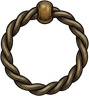
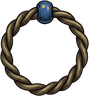
İkonlar: stat/görev ailesi tek parşömen diskte (çeviklik, dayanıklılık, zekâ, sezgi, tellal), büyülü yüzüğün boncuğu mavi

Changed region(s): [[0.4045, 0.0, 0.6067, 0.25], [0.382, 0.125, 0.4045, 0.1562]]

diff --git a/tools/icon_discs.py b/tools/icon_discs.py
@@ -1,0 +1,159 @@
+#!/usr/bin/env python3
+"""Stat ve görev ikonlarını tek aileye toplar: ikinci teslimatın parşömen diski.
+
+İkinci teslimat (Faz 22) stat ve görev ikonlarının çoğunu parşömen yüzlü, ince altın
+çizgili, koyu demir halkalı bir diske koydu; bir kısmı gelmedi ya da bozuk geldi ve
+aile karıştı: çevikliğin tavşanı, zekânın terazisi ve tellalın çanı diskin dışında
+kaldı, dayanıklılık işlenmemiş gri bir kare, sezgi kare bir karo (görsel denetim
+C-01..C-05, 2026-10-22). Bu araç aynı diski üretir ve o ikonları en temiz kaynağından (ilk teslimatın
+`P3*` jpg'leri ya da ikinci teslimatın çıplak ikonları, `*_src.png`) diskin içine oturtur. Disk
+boyanmıyor, ölçülen tonlardan üretiliyor (p3_charisma: yüz 0.73, altın çizgi, halka
+0.28), dolayısıyla diğer disklerle yan yana aynı nesne gibi durur.
+
+Ayrıca: `eq_ring_charmed` istem "mavi boncuklu bakır tel yüzük" diyordu, boncuk kehribar
+geldi. Kaynağı `art_source/waybook/eq_ring_charmed_src.png`; boncuk renk tonuyla bulunup
+maviye çevrilir (yalnızca o bölge, parlaklık ve mürekkep korunur).
+
+Çıktı PNG'leri elle düzeltilmez: bu aracı değiştirip yeniden koş.
+    python3 -I tools/icon_discs.py
+"""
+import os
+import sys
+
+import numpy as np
+from PIL import Image
+
+ROOT = os.path.dirname(os.path.dirname(os.path.abspath(__file__)))
+sys.path.insert(0, os.path.join(ROOT, "tools"))
+import waybook_assets as wa  # noqa: E402
+
+SRC = os.path.join(ROOT, "art_source", "waybook")
+OUT = os.path.join(ROOT, "data", "assets", "ui", "waybook")
+
+# Diske oturtulan ikonlar: kaynak -> çıktı.
+# Saydam bir `_src.png` varsa (zaten anahtarlanmış, ikinci teslimatın temiz çıplak
+# ikonu) o kullanılır; yoksa ilk teslimatın gri zeminli jpg'si anahtarlanır.
+DISCED = {
+    "p3_agility_src.png": "p3_agility.png",
+    "P3c_stat_endurance.jpg": "p3_endurance.png",
+    "p3_intellect_src.png": "p3_intellect.png",
+    "P3e_stat_perception.jpg": "p3_perception.png",
+    "p5_crier_src.png": "p5_crier.png",
+}
+OUT_SIZE = 96          # ailenin geri kalanı 96 px
+WORK = 384             # disk bu boyda çizilip küçültülür
+FACE_R = 0.80          # parşömen yüzün yarıçap payı
+GOLD_R = 0.815         # ince altın çizgi
+RING_IN = 0.84         # demir halka buradan başlar
+ICON_FILL = 0.97       # ikonun en uzak opak pikseli yüzün bu payında
+
+FACE_CENTRE = np.array([0.88, 0.85, 0.78])
+FACE_EDGE = np.array([0.66, 0.62, 0.53])
+GOLD = np.array([0.66, 0.55, 0.30])
+IRON = np.array([0.22, 0.21, 0.18])
+IRON_LIGHT = np.array([0.34, 0.32, 0.27])
+IRON_DARK = np.array([0.12, 0.11, 0.09])
+SEED = 11
+
+# Boncuk: kehribar tonlar (renk açısı 15-55°, doygun) maviye döner.
+BEAD_HUE = (15.0, 55.0)
+BEAD_MIN_SAT = 0.45
+BEAD_CENTRE = (0.5, 0.125)
+BEAD_RADIUS = 0.12
+BEAD_BLUE = np.array([0.26, 0.42, 0.62])
+
+
+def noise(rng, n, cell):
+    small = rng.random((n // cell + 2, n // cell + 2)).astype(np.float32)
+    im = Image.fromarray((small * 255).astype(np.uint8)).resize((n, n), Image.BICUBIC)
+    return np.asarray(im, dtype=np.float32) / 255.0
+
+
+def make_disc() -> np.ndarray:
+    n = WORK
+    rng = np.random.default_rng(SEED)
+    yy, xx = np.mgrid[0:n, 0:n].astype(np.float32)
+    c = (n - 1) * 0.5
+    dx, dy = xx - c, yy - c
+    d = np.sqrt(dx * dx + dy * dy)
+    R = n * 0.5 - 1.0
+    u = d / R
+    lit = (-(dx + dy) / np.maximum(d, 1.0)) * 0.5 + 0.5
+
+    t = np.clip(u / FACE_R, 0, 1) ** 2
+    face = FACE_CENTRE + (FACE_EDGE - FACE_CENTRE) * t[..., None]
+    face *= (1.0 + 0.10 * (0.6 * noise(rng, n, 40) + 0.4 * noise(rng, n, 10) - 0.5))[..., None]
+    rgb = face
+
+    ring_t = np.clip((u - RING_IN) / (1.0 - RING_IN), 0, 1)
+    bevel = np.where(ring_t < 0.5, 1.0 - lit, lit) * np.sin(ring_t * np.pi)
+    iron = IRON + (IRON_LIGHT - IRON) * bevel[..., None]
+    iron *= (0.9 + 0.2 * noise(rng, n, 5))[..., None]
+    rgb = np.where((u >= RING_IN)[..., None], iron, rgb)
+    gold = np.exp(-((u - GOLD_R) / 0.008) ** 2)
+    rgb = rgb * (1 - gold[..., None]) + GOLD * gold[..., None]
+    for edge, width in [(RING_IN, 0.006), (FACE_R, 0.006), (1.0 - 0.006, 0.006)]:
+        line = np.exp(-((u - edge) / width) ** 2) * 0.85
+        rgb = rgb * (1 - line[..., None]) + IRON_DARK * line[..., None]
+    alpha = np.clip(R + 0.5 - d, 0, 1)
+    return np.dstack([np.clip(rgb, 0, 1), alpha])
+
+
+def keyed(src: str) -> np.ndarray:
+    path = os.path.join(SRC, src)
+    if src.endswith(".png"):
+        return wa.crop_to_alpha(np.asarray(Image.open(path).convert("RGBA")))
+    rgb = np.asarray(Image.open(path).convert("RGB"))
+    return wa.crop_to_alpha(wa.key(rgb))
+
+
+def place(disc: np.ndarray, icon_rgba: np.ndarray) -> Image.Image:
+    n = disc.shape[0]
+    a = icon_rgba[..., 3] > 24
+    ys, xs = np.nonzero(a)
+    cx, cy = (xs.min() + xs.max()) * 0.5, (ys.min() + ys.max()) * 0.5
+    reach = float(np.sqrt((xs - cx) ** 2 + (ys - cy) ** 2).max())
+    scale = ICON_FILL * FACE_R * (n * 0.5 - 1.0) / reach
+    icon = Image.fromarray(icon_rgba.astype(np.uint8), "RGBA")
+    size = (max(1, round(icon.width * scale)), max(1, round(icon.height * scale)))
+    icon = icon.resize(size, Image.LANCZOS)
+    base = Image.fromarray((disc * 255).astype(np.uint8), "RGBA")
+    base.alpha_composite(icon, (round(n * 0.5 - cx * scale), round(n * 0.5 - cy * scale)))
+    return base.resize((OUT_SIZE, OUT_SIZE), Image.LANCZOS)
+
+
+def blue_bead() -> None:
+    src = os.path.join(SRC, "eq_ring_charmed_src.png")
+    im = np.asarray(Image.open(src).convert("RGBA")).astype(np.float32) / 255.0
+    rgb = im[..., :3]
+    mx, mn = rgb.max(-1), rgb.min(-1)
+    sat = np.where(mx > 0, (mx - mn) / np.maximum(mx, 1e-6), 0)
+    r, g, b = rgb[..., 0], rgb[..., 1], rgb[..., 2]
+    hue = np.degrees(np.arctan2(np.sqrt(3) * (g - b), 2 * r - g - b)) % 360
+    # Tel de bakır, aynı renk açısında; boncuğu yeri ayırıyor: halkanın tepesinde.
+    # Ölçüldü (96 px kaynak): boncuk y 2-22, x 0.42-0.58 genişlik, merkez (0.5, 0.125).
+    h, w = im.shape[:2]
+    yy, xx = np.mgrid[0:h, 0:w]
+    near = np.hypot((xx - w * BEAD_CENTRE[0]) / w, (yy - h * BEAD_CENTRE[1]) / h) < BEAD_RADIUS
+    bead = (hue >= BEAD_HUE[0]) & (hue <= BEAD_HUE[1]) & (sat >= BEAD_MIN_SAT) & (im[..., 3] > 0.2) & near
+    if not bead.any():
+        raise SystemExit("eq_ring_charmed: boncuk bulunamadı")
+    luma = (rgb @ np.array([0.299, 0.587, 0.114]))[..., None]
+    blue = np.clip(BEAD_BLUE * (luma / 0.5), 0, 1)
+    rgb = np.where(bead[..., None], blue, rgb)
+    out = np.dstack([rgb, im[..., 3]])
+    Image.fromarray((out * 255).astype(np.uint8), "RGBA").save(os.path.join(OUT, "eq_ring_charmed.png"), optimize=True)
+    print("eq_ring_charmed: boncuk", int(bead.sum()), "px maviye")
+
+
+def main() -> int:
+    disc = make_disc()
+    for src, out in DISCED.items():
+        place(disc, keyed(src)).save(os.path.join(OUT, out), optimize=True)
+        print(out)
+    blue_bead()
+    return 0
+
+
+if __name__ == "__main__":
+    sys.exit(main())

diff --git a/CLAUDE.md b/CLAUDE.md
@@ -5273,12 +5273,11 @@ verir.
   İkinci sanat turu (bkz. aşağıdaki Faz 22 anlatısı) yönetim ekranı
   arka planlarını, mal/durum/stat/görev/sınıf ikonlarını, haritayı ve
   mührü çok daha yüksek çözünürlükte yeniden gönderdi ve hepsi
-  `data/assets/ui/waybook`'a işlendi. Gerçekten açık kalan: beş ikon
-  (`p3_agility`, `p5_scout` - teslim edilen içerik kendi dosya adıyla
-  uyuşmuyor; `p3_intellect`, `p4_passed_over` - prompt'tan sapan ama
-  önceki turdan beri kabul edilmiş bir ikon dili; `eq_ring_charmed` - mavi
-  boncuk detayı eksik) ve wardrobe'un kıyafet parça sayfaları (B kategorisi,
-  artık istenmiyor, giysiler 3B render). Tam liste ve
+  `data/assets/ui/waybook`'a işlendi. Beş sorunlu ikon 2026-10-22'de kapandı:
+  `tools/icon_discs.py` çıplak ya da bozuk gelen stat/görev ikonlarını (çeviklik, dayanıklılık, zekâ, sezgi, tellal)
+  ailenin parşömen diskine oturtuyor ve `eq_ring_charmed`'ın boncuğunu maviye çeviriyor; gözcü portresi, terazi ve
+  kırık mühür kalıyor. Açık kalan yalnızca wardrobe'un kıyafet parça sayfaları (B kategorisi, artık istenmiyor,
+  giysiler 3B render). Tam liste ve
   her satırın durumu `docs/wayborne_gorsel_denetim.xlsx`'te.
 - **Gerçek seslendirme + savaş nidaları** (#7, #11). `AudioManager`'ın
   bugünkü sentezlenmiş placeholder'larının yerini gerçek kayıt alacak;
